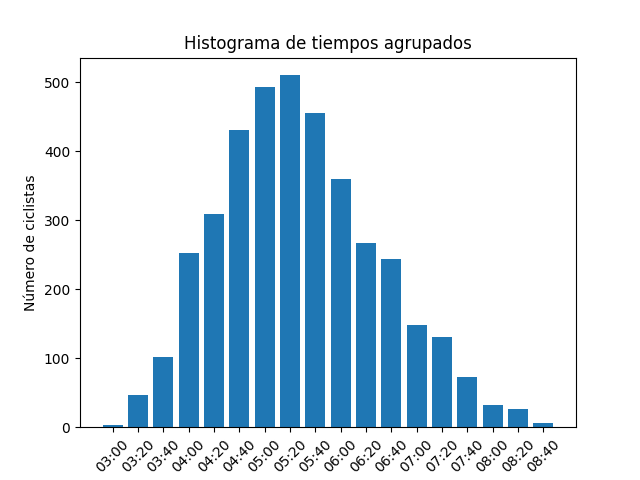
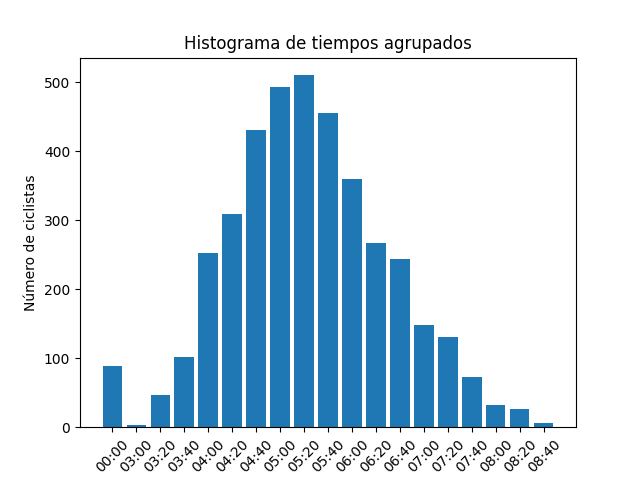
Mejorado

Changed region(s): [[0.1562, 0.1562, 0.875, 1.0]]

diff --git a/orbea_package/eda.py b/orbea_package/eda.py
@@ -79,3 +79,47 @@ def get_cyclist_by_dorsal(df, dorsal):
         pd.Series: Registro del ciclista con el dorsal especificado.
     """
     return df[df['dorsal'] == dorsal]
+
+
+if __name__ == "__main__":
+    # Ruta al dataset
+    filepath = "data/dataset.csv"
+
+    # Cargar el dataset
+    print("Cargando dataset desde:", filepath)
+    try:
+        df = importar_dataset(filepath)
+        print("Dataset cargado correctamente.\n")
+    except FileNotFoundError:
+        print(f"Error: No se encontró el archivo en la ruta {filepath}.")
+        exit()
+
+    # Mostrar los 5 primeros registros
+    print("Mostrando los 5 primeros registros:")
+    print(mostrar_5_primeros(df))
+
+    # Contar ciclistas
+    print(f"\nNúmero total de ciclistas: {contar_ciclistas(df)}")
+
+    # Mostrar columnas
+    print("\nColumnas del dataset:")
+    print(obtener_columnas(df))
+
+    # Anonimizar nombres
+    print("\nAnonimizando nombres de los ciclistas...")
+    df = name_surname(df)
+    print("Primeros 5 registros después de anonimizar:")
+    print(mostrar_5_primeros(df))
+
+    # Eliminar ciclistas no participantes
+    print("\nEliminando ciclistas no participantes...")
+    df = remove_non_participants(df)
+    print(f"Ciclistas restantes: {contar_ciclistas(df)}")
+
+    # Recuperar datos del ciclista con dorsal=1000
+    print("\nRecuperando datos del ciclista con dorsal=1000...")
+    cyclist = get_cyclist_by_dorsal(df, 1000)
+    if not cyclist.empty:
+        print(cyclist)
+    else:
+        print("No se encontró un ciclista con el dorsal 1000.")

diff --git a/orbea_package/clubs.py b/orbea_package/clubs.py
@@ -51,3 +51,31 @@ def analyze_ucsc(df):
     best_position = df['time'].sort_values().reset_index(drop=True).tolist().index(best_time) + 1
     percentage = (best_position / total_cyclists) * 100
     return ucsc_cyclists, best_cyclist, best_position, percentage
+
+
+if __name__ == "__main__":
+    filepath = "data/dataset.csv"
+    # Cargar el dataset
+    print("Cargando dataset desde:", filepath)
+    try:
+        df = pd.read_csv(filepath, delimiter=';')
+        print("Dataset cargado correctamente.\n")
+    except FileNotFoundError:
+        print(f"Error: No se encontró el archivo en la ruta {filepath}.")
+        exit()
+
+    # Procesar nombres de clubes
+    print("Procesando nombres de clubes...")
+    grouped_clubs = process_clubs(df)
+    print("Clubes agrupados y limpios:")
+    print(grouped_clubs)
+
+    # Analizar UCSC
+    print("\nAnalizando datos del club UCSC...")
+    ucsc_cyclists, best_cyclist, best_position, percentage = analyze_ucsc(df)
+    print("Ciclistas de UCSC:")
+    print(ucsc_cyclists)
+    print("\nMejor ciclista de UCSC:")
+    print(best_cyclist)
+    print(f"\nPosición del mejor ciclista: {best_position}")
+    print(f"Porcentaje sobre el total: {percentage:.2f}%")

diff --git a/orbea_package/grouping.py b/orbea_package/grouping.py
@@ -41,3 +41,30 @@ def group_and_plot_histogram(df):
     plt.close()
 
     return grouped
+
+
+if __name__ == "__main__":
+    # Ruta al dataset
+    filepath = "data/dataset.csv"
+
+    # Cargar el dataset
+    print("Cargando dataset desde:", filepath)
+    try:
+        df = pd.read_csv(filepath, delimiter=';')
+        print("Dataset cargado correctamente.\n")
+    except FileNotFoundError:
+        print(f"Error: No se encontró el archivo en la ruta {filepath}.")
+        exit()
+
+    # Agrupar tiempos en franjas de 20 minutos
+    print("Agrupando tiempos en franjas de 20 minutos...")
+    df['time_grouped'] = df['time'].apply(minutes_002040)
+    print("Primeros 15 registros con tiempos agrupados:")
+    print(df[['time', 'time_grouped']].head(15))
+
+    # Generar y guardar el histograma
+    print("\nGenerando histograma de tiempos agrupados...")
+    grouped = group_and_plot_histogram(df)
+    print("Histograma guardado en 'img/histograma.png'.")
+    print("\nDatos agrupados:")
+    print(grouped)
